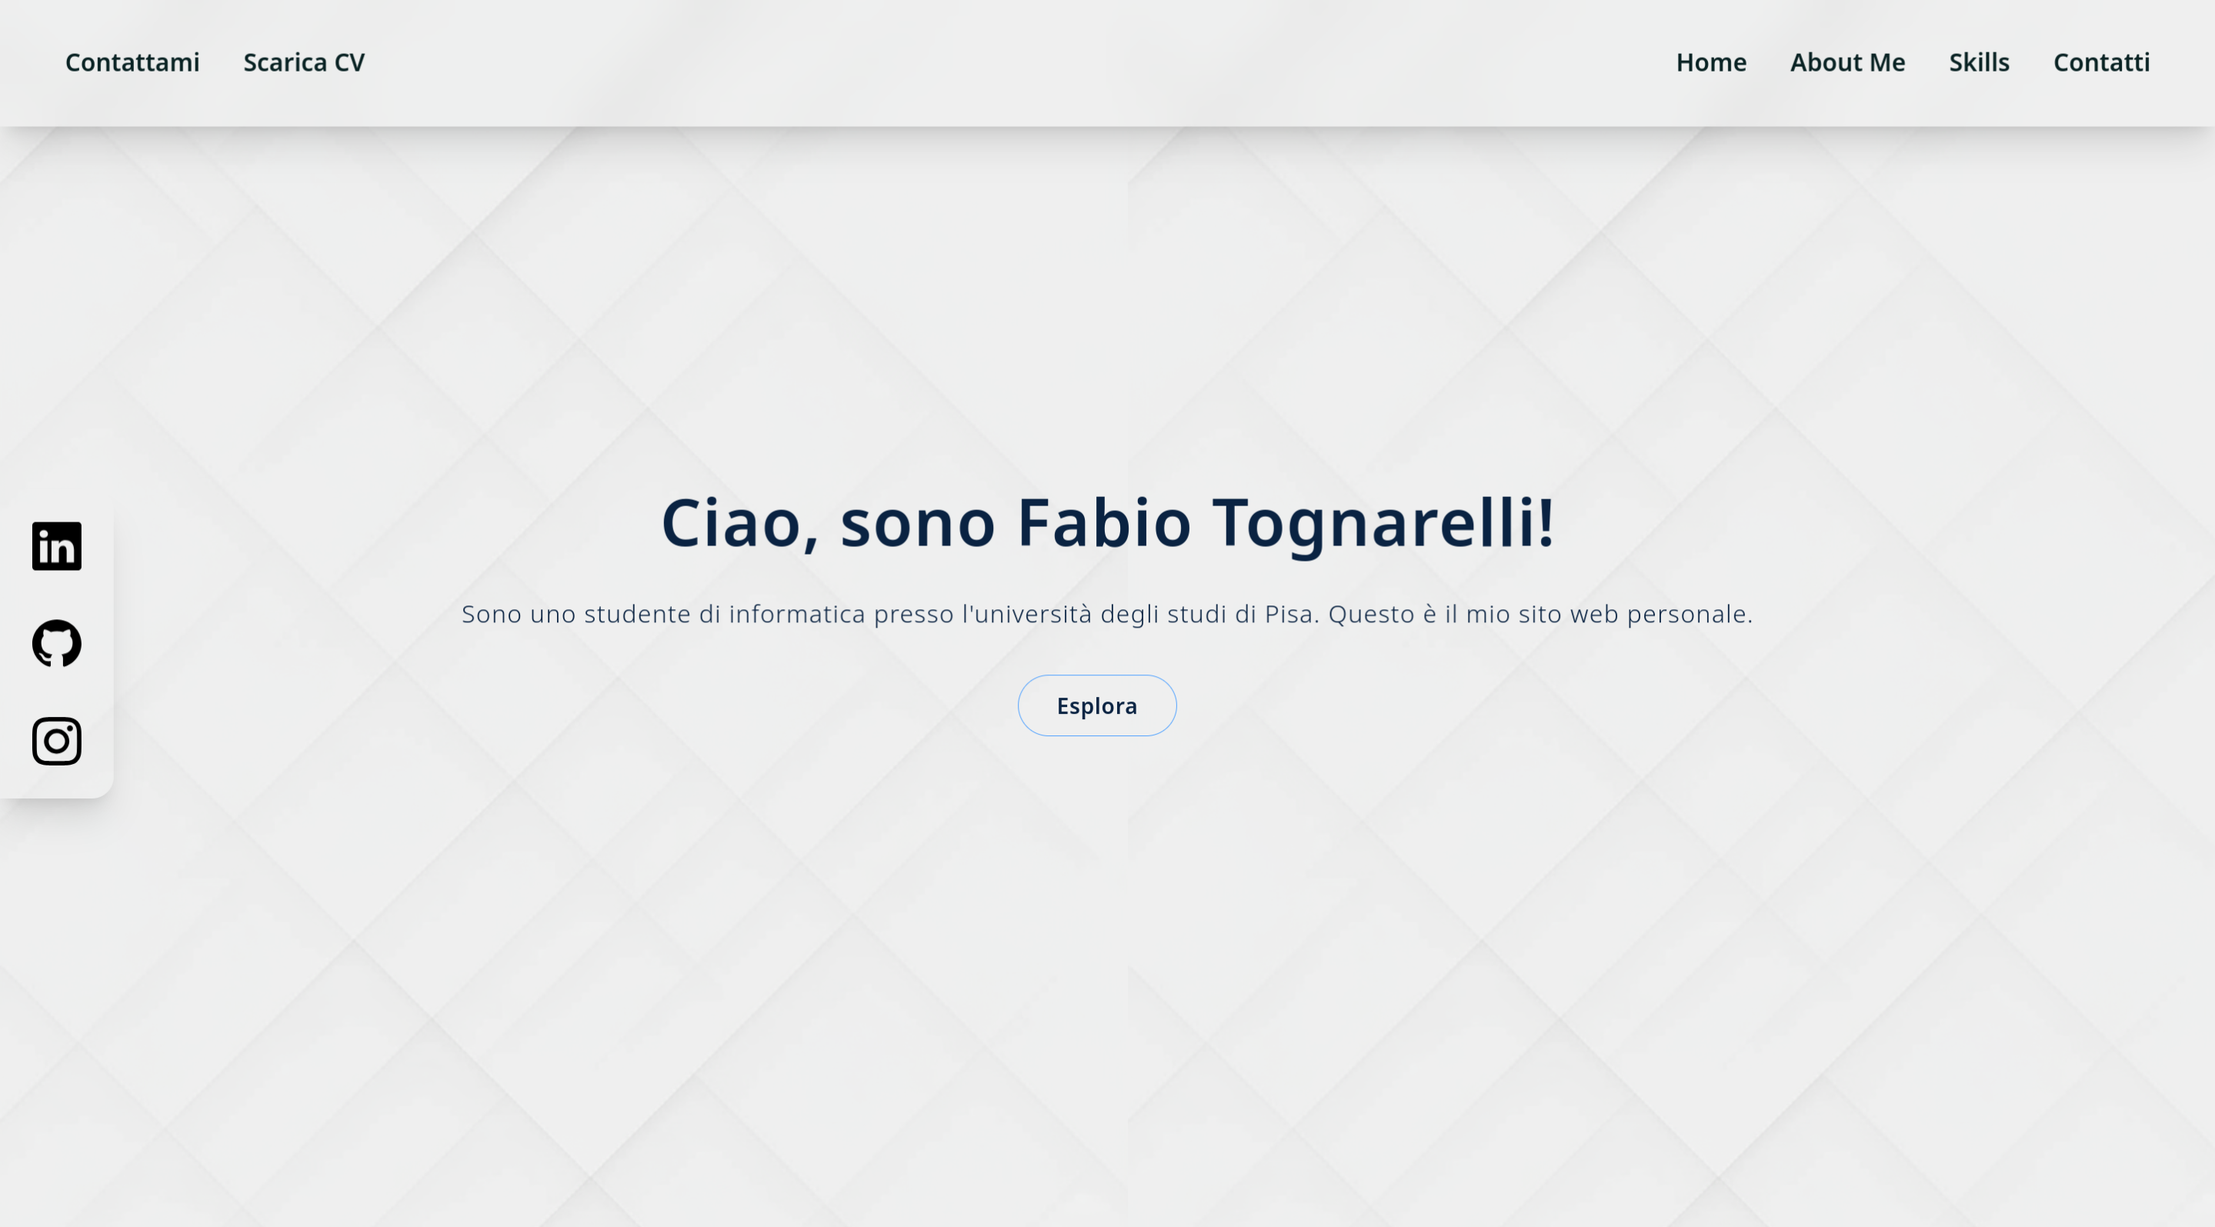
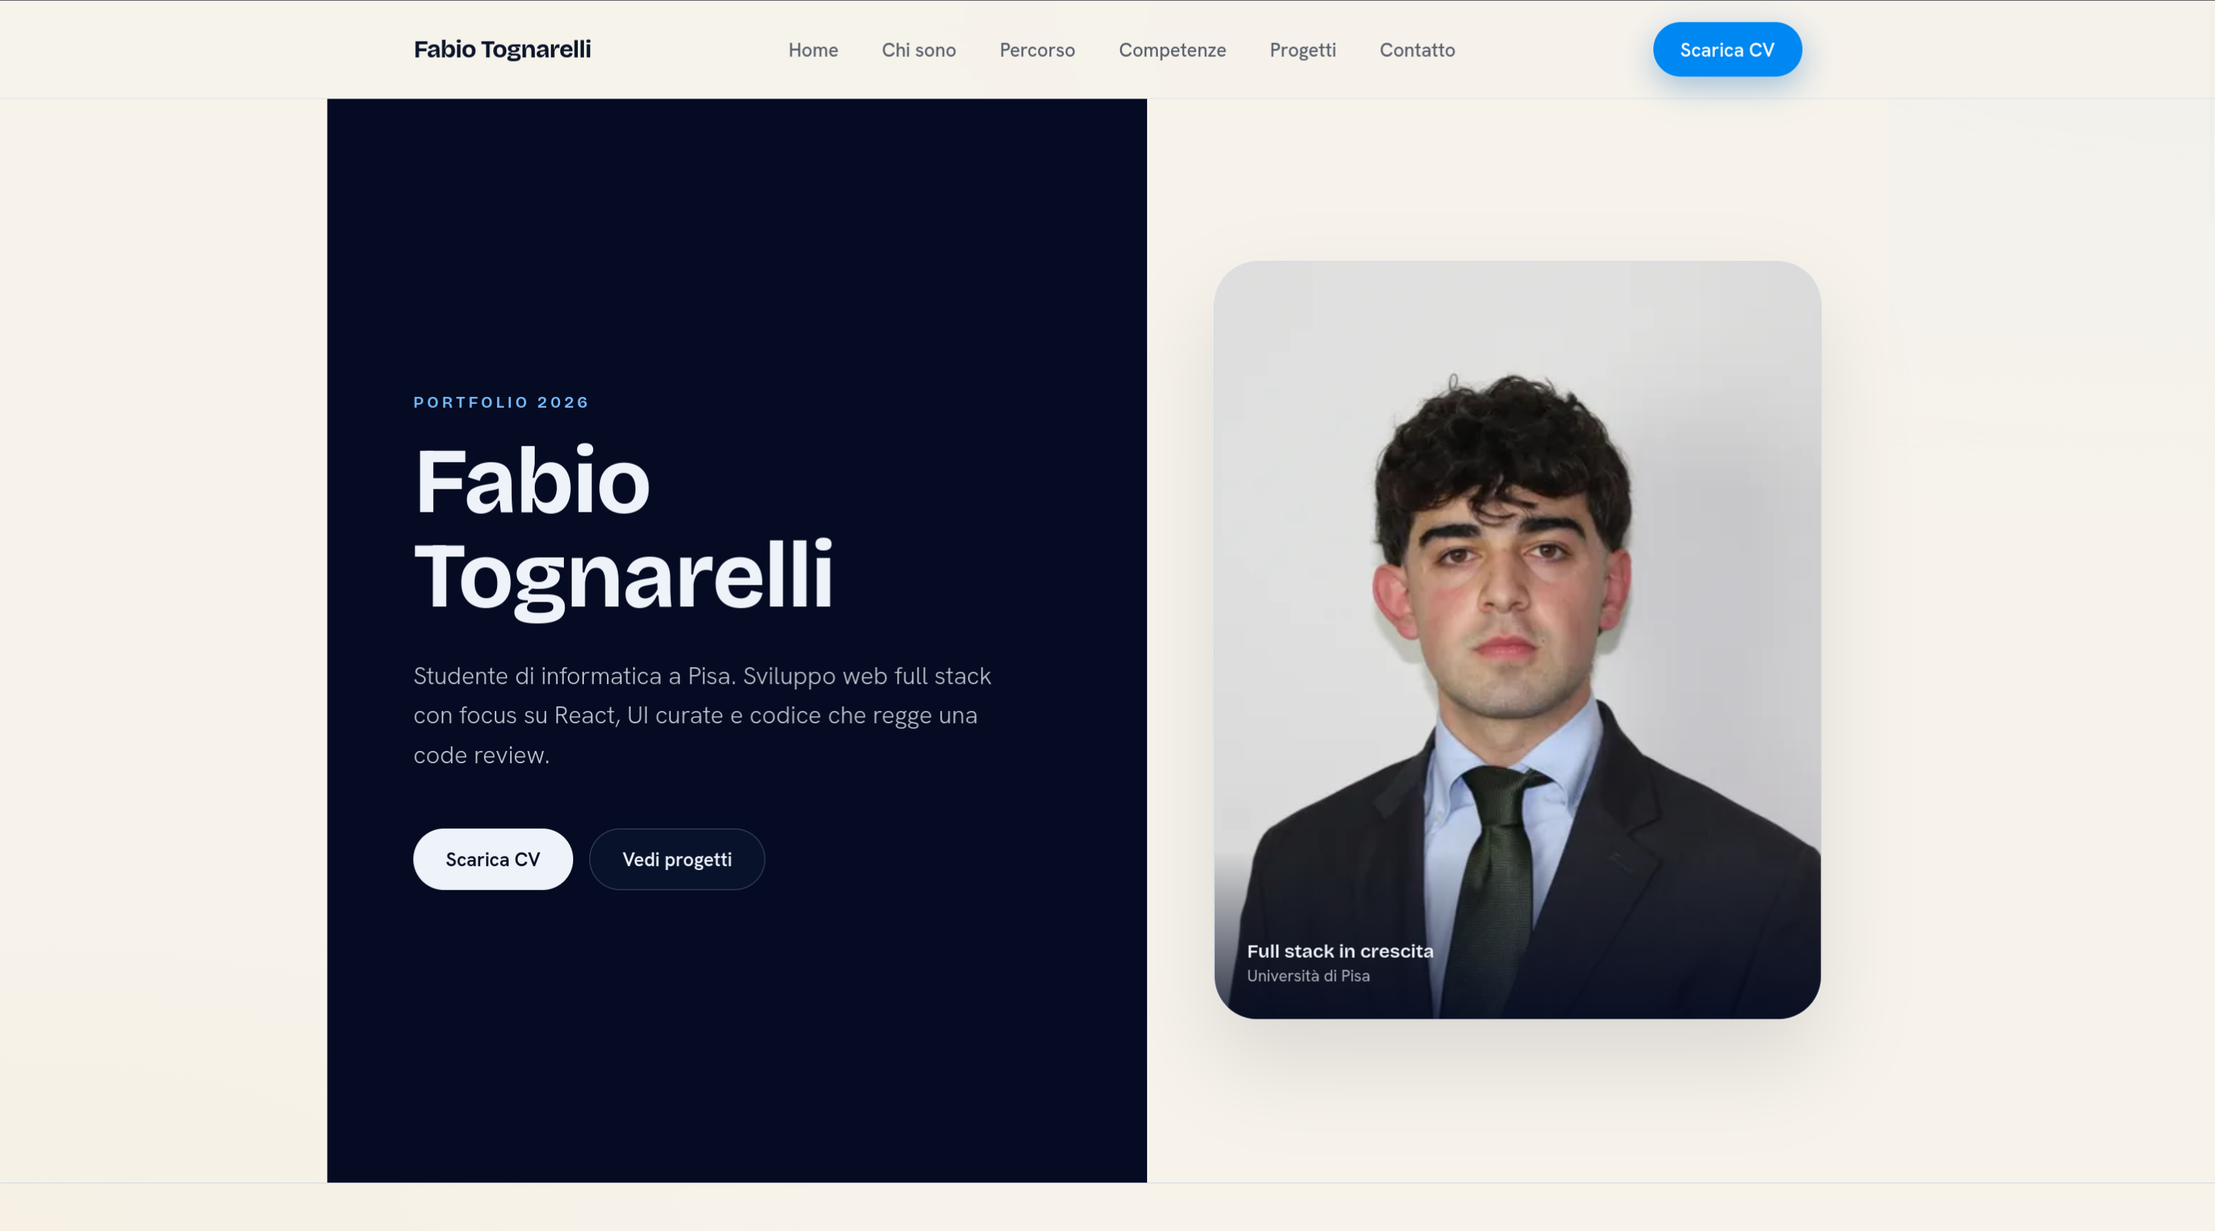
update README | piccole modifiche grafiche a ContactPage e StudySection | update regole eslint

diff --git a/src/components/pages/ContactPage.jsx b/src/components/pages/ContactPage.jsx
@@ -33,7 +33,7 @@ function FieldError({ id, message }) {
   }
 
   return (
-    <p id={id} role="alert" className="mt-1.5 text-sm text-error-text">
+    <p id={id} role="alert" className="text-error-text mt-1.5 text-sm">
       {message}
     </p>
   );
@@ -79,7 +79,9 @@ function ContactPage() {
       setFieldErrors(errors);
       setFormError("");
       setStatus("idle");
-      const firstInvalid = ["name", "email", "message"].find((field) => errors[field]);
+      const firstInvalid = ["name", "email", "message"].find(
+        (field) => errors[field],
+      );
       if (firstInvalid) {
         document.getElementById(`contact-${firstInvalid}`)?.focus();
       }
@@ -126,8 +128,8 @@ function ContactPage() {
           <p className="section-label">Contatto</p>
           <h1 className="section-heading mt-3">Parliamone</h1>
           <p className="prose-body mt-4">
-            Opportunità di stage, collaborazioni o domande sul mio percorso: rispondo
-            appena possibile.
+            Opportunità di stage, collaborazioni o domande sul mio percorso:
+            rispondo appena possibile.
           </p>
         </Reveal>
 
@@ -141,7 +143,7 @@ function ContactPage() {
           <div>
             <label
               htmlFor="contact-name"
-              className="mb-1.5 block text-sm font-semibold text-ink"
+              className="text-ink mb-1.5 block text-sm font-semibold"
             >
               Nome
             </label>
@@ -151,7 +153,7 @@ function ContactPage() {
               value={values.name}
               onChange={(e) => updateField("name", e.target.value)}
               type="text"
-              className="motion-field w-full rounded-xl border border-line bg-canvas/50 px-4 py-3 text-base text-ink sm:text-sm"
+              className="motion-field border-line text-ink w-full cursor-pointer rounded-xl border px-4 py-3 text-base sm:text-sm"
               placeholder="Il tuo nome"
               autoComplete="name"
               aria-invalid={fieldErrors.name ? "true" : undefined}
@@ -165,7 +167,7 @@ function ContactPage() {
           <div>
             <label
               htmlFor="contact-email"
-              className="mb-1.5 block text-sm font-semibold text-ink"
+              className="text-ink mb-1.5 block text-sm font-semibold"
             >
               Email
             </label>
@@ -175,7 +177,7 @@ function ContactPage() {
               value={values.email}
               onChange={(e) => updateField("email", e.target.value)}
               type="email"
-              className="motion-field w-full rounded-xl border border-line bg-canvas/50 px-4 py-3 text-base text-ink sm:text-sm"
+              className="motion-field border-line text-ink w-full cursor-pointer rounded-xl border px-4 py-3 text-base sm:text-sm"
               placeholder="nome@email.com"
               autoComplete="email"
               aria-invalid={fieldErrors.email ? "true" : undefined}
@@ -189,7 +191,7 @@ function ContactPage() {
           <div>
             <label
               htmlFor="contact-message"
-              className="mb-1.5 block text-sm font-semibold text-ink"
+              className="text-ink mb-1.5 block text-sm font-semibold"
             >
               Messaggio
             </label>
@@ -199,7 +201,7 @@ function ContactPage() {
               value={values.message}
               onChange={(e) => updateField("message", e.target.value)}
               rows={6}
-              className="motion-field w-full resize-none rounded-xl border border-line bg-canvas/50 px-4 py-3 text-base text-ink sm:text-sm"
+              className="motion-field border-line text-ink w-full cursor-pointer resize-none rounded-xl border px-4 py-3 text-base sm:text-sm"
               placeholder="Di cosa vuoi parlare?"
               aria-invalid={fieldErrors.message ? "true" : undefined}
               aria-describedby={
@@ -212,6 +214,7 @@ function ContactPage() {
             />
           </div>
 
+          {/* bottone submit */}
           <button
             type="submit"
             disabled={!canSubmit}
@@ -224,7 +227,7 @@ function ContactPage() {
           {status === "success" && (
             <p
               role="status"
-              className="rounded-xl border border-success-border bg-success-surface p-4 text-sm text-success-text"
+              className="border-success-border bg-success-surface text-success-text rounded-xl border p-4 text-sm"
             >
               Messaggio inviato. Ti risponderò appena possibile.
             </p>
@@ -233,7 +236,7 @@ function ContactPage() {
           {status === "error" && formError && (
             <p
               role="alert"
-              className="rounded-xl border border-error-border bg-error-surface p-4 text-sm text-error-text"
+              className="border-error-border bg-error-surface text-error-text rounded-xl border p-4 text-sm"
             >
               {formError}
             </p>

diff --git a/src/components/sections/StudyTimeline.jsx b/src/components/sections/StudyTimeline.jsx
@@ -3,36 +3,6 @@ import { ChevronDownIcon } from "@heroicons/react/24/outline";
 import Reveal from "../ui/Reveal";
 import { studyPath } from "../../lib/study";
 
-function CurrentBadge({ hint }) {
-  const hintId = useId();
-  const [open, setOpen] = useState(false);
-
-  return (
-    <span className="current-badge relative inline-flex">
-      <button
-        type="button"
-        className="touch-target rounded-full bg-accent/12 px-3 py-1.5 text-xs font-semibold text-accent-deep outline-none"
-        aria-describedby={hintId}
-        aria-expanded={open}
-        onClick={() => setOpen((value) => !value)}
-        onBlur={(event) => {
-          if (!event.currentTarget.parentElement?.contains(event.relatedTarget)) {
-            setOpen(false);
-          }
-        }}
-      >
-        Attuale
-      </button>
-      <span
-        id={hintId}
-        className={`current-badge__hint${open ? " current-badge__hint--open" : ""}`}
-        role="tooltip"
-      >
-        {hint}
-      </span>
-    </span>
-  );
-}
 
 function StudyEntry({ entry, index }) {
   const detailsId = useId();
@@ -43,7 +13,7 @@ function StudyEntry({ entry, index }) {
     <Reveal
       as="li"
       delay={index * 100}
-      className="relative grid gap-4 pb-10 sm:gap-6 sm:pb-12 md:grid-cols-[auto_1fr] md:items-start md:gap-x-8 md:pb-16 last:pb-0"
+      className="relative grid gap-4 pb-10 last:pb-0 sm:gap-6 sm:pb-12 md:grid-cols-[auto_1fr] md:items-start md:gap-x-8 md:pb-16"
     >
       <div className="flex shrink-0 items-start md:pt-1">
         <img
@@ -60,25 +30,18 @@ function StudyEntry({ entry, index }) {
       </div>
 
       <article
-        className={`surface-panel p-6 md:p-8 ${
-          entry.current
-            ? "border-accent/35 bg-surface shadow-[0_16px_40px_oklch(20%_0.04_265/0.08)]"
-            : ""
-        }`}
+        className={`surface-panel p-6 md:p-8`}
       >
         <div className="flex flex-wrap items-center gap-x-3 gap-y-1">
-          <p className="text-xs font-semibold uppercase tracking-wider text-accent">
+          <p className="text-accent text-xs font-semibold tracking-wider uppercase">
             {entry.period}
           </p>
-          {entry.current && entry.currentHint && (
-            <CurrentBadge hint={entry.currentHint} />
-          )}
         </div>
-        <h3 className="mt-2 font-display text-xl font-bold text-ink md:text-2xl">
+        <h3 className="font-display text-ink mt-2 text-xl font-bold md:text-2xl">
           {entry.school}
         </h3>
-        <p className="mt-1 text-sm text-ink-soft">{entry.place}</p>
-        <p className="mt-4 text-base leading-relaxed text-ink-muted">
+        <p className="text-ink-soft mt-1 text-sm">{entry.place}</p>
+        <p className="text-ink-muted mt-4 text-base leading-relaxed">
           {entry.degree}
         </p>
 
@@ -91,9 +54,11 @@ function StudyEntry({ entry, index }) {
               aria-controls={detailsId}
               onClick={() => setExpanded((open) => !open)}
             >
-              <span>{expanded ? "Nascondi dettagli" : "Dettagli del percorso"}</span>
+              <span>
+                {expanded ? "Nascondi dettagli" : "Dettagli del percorso"}
+              </span>
               <ChevronDownIcon
-                className="h-4 w-4 shrink-0 transition-transform duration-(--duration-ui) ease-fluid"
+                className="ease-fluid h-4 w-4 shrink-0 transition-transform duration-(--duration-ui)"
                 style={{ transform: expanded ? "rotate(180deg)" : undefined }}
                 aria-hidden
               />
@@ -107,11 +72,11 @@ function StudyEntry({ entry, index }) {
               {...(!expanded ? { inert: "" } : {})}
             >
               <div className="expand-panel__inner">
-                <ul className="expand-panel__content mt-4 space-y-2 border-t border-line/80 pt-4 text-sm leading-relaxed text-ink-muted">
+                <ul className="expand-panel__content border-line/80 text-ink-muted mt-4 space-y-2 border-t pt-4 text-sm leading-relaxed">
                   {entry.details.map((line) => (
                     <li key={line} className="flex gap-2.5">
                       <span
-                        className="mt-2 h-1 w-1 shrink-0 rounded-full bg-accent"
+                        className="bg-accent mt-2 h-1 w-1 shrink-0 rounded-full"
                         aria-hidden
                       />
                       <span>{line}</span>
@@ -131,7 +96,7 @@ function StudyTimeline() {
   return (
     <section
       id="percorso"
-      className="section-pad border-y border-line bg-surface/50 scroll-mt-header"
+      className="section-pad border-line bg-surface/50 scroll-mt-header border-y"
       aria-labelledby="study-heading"
     >
       <div className="mx-auto max-w-6xl">

diff --git a/eslint.config.js b/eslint.config.js
@@ -1,13 +1,13 @@
-import js from '@eslint/js'
-import globals from 'globals'
-import reactHooks from 'eslint-plugin-react-hooks'
-import reactRefresh from 'eslint-plugin-react-refresh'
-import { defineConfig, globalIgnores } from 'eslint/config'
+import js from "@eslint/js";
+import globals from "globals";
+import reactHooks from "eslint-plugin-react-hooks";
+import reactRefresh from "eslint-plugin-react-refresh";
+import { defineConfig, globalIgnores } from "eslint/config";
 
 export default defineConfig([
-  globalIgnores(['dist']),
+  globalIgnores(["dist", ".agents/**", ".impeccable/**"]),
   {
-    files: ['**/*.{js,jsx}'],
+    files: ["**/*.{js,jsx}"],
     extends: [
       js.configs.recommended,
       reactHooks.configs.flat.recommended,
@@ -17,13 +17,13 @@ export default defineConfig([
       ecmaVersion: 2020,
       globals: globals.browser,
       parserOptions: {
-        ecmaVersion: 'latest',
+        ecmaVersion: "latest",
         ecmaFeatures: { jsx: true },
-        sourceType: 'module',
+        sourceType: "module",
       },
     },
     rules: {
-      'no-unused-vars': ['error', { varsIgnorePattern: '^[A-Z_]' }],
+      "no-unused-vars": ["error", { varsIgnorePattern: "^[A-Z_]" }],
     },
   },
-])
+]);

diff --git a/README.md b/README.md
@@ -1,7 +1,5 @@
 # Fabio Tognarelli - Portfolio Personale
 
-![Banner Principale](../public/screenshots/desktop-preview.png)
-
 [![Live Demo](https://img.shields.io/badge/demo-online-green.svg)](https://fabiotognaa-personal-portfolio.vercel.app)
 
 ## 👋 Introduzione
@@ -26,29 +24,31 @@ Il progetto è costruito con un approccio moderno, pulito e focalizzato sulle pe
 
 Ecco le tecnologie e gli strumenti utilizzati per realizzare questo progetto:
 
-| Categoria           | Tecnologie                          |
-| :------------------ | :---------------------------------- |
-| **Build Tool**      | Vite                                |
-| **Database**        | Supabase                            |
+| Categoria           | Tecnologie                                     |
+| :------------------ | :--------------------------------------------- |
+| **Build Tool**      | Vite                                           |
+| **Database**        | Supabase                                       |
 | **Frontend**        | React, React Router, Tailwind CSS, Headless UI |
-| **Code Quality**    | Prettier (Tailwind Plugin), ESLint  |
-| **Version Control** | Git & GitHub                        |
-| **Deployment**      | Vercel                              |
-| **Design & Assets** | Canva (editing immagini), HeroIcons |
+| **Code Quality**    | Prettier (Tailwind Plugin), ESLint             |
+| **Version Control** | Git & GitHub                                   |
+| **Deployment**      | Vercel                                         |
+| **Design & Assets** | Canva (editing immagini), HeroIcons            |
 
 ## 📸 Anteprima
 
 ### Desktop View
 
-![Desktop Screenshot](../public/screenshots/desktop-preview.png)
+<img src="./docs/screenshots/desktop-preview.png" alt="Desktop Preview" width="260" />
 
-### Mobile View
-
-<img src="../public/screenshots/mobile-preview.png" alt="Mobile Preview" width="260" />
 
 ### Contact Page
 
-<img src="../public/screenshots/form-preview.png" alt="Contact form preview" width="260" />
+<img src="./docs/screenshots/form-preview.png" alt="Contact form preview" width="260" />
+
+
+### Project Page
+
+<img src="./docs/screenshots/" alt="Project section preview" width="260" />
 
 ## 🚀 Come avviare il progetto in locale
 
@@ -93,39 +93,45 @@ Assicurati di avere installato [Node.js](https://nodejs.org/) e [pnpm](https://p
 
 ### Altri comandi utili
 
-| Comando              | Descrizione                          |
-| :------------------- | :----------------------------------- |
-| `pnpm build`         | Build di produzione in `dist/`       |
-| `pnpm preview`       | Anteprima locale della build         |
-| `pnpm lint`          | Controllo ESLint                     |
-| `pnpm deploy`        | Build + deploy produzione su Vercel  |
-| `pnpm deploy:preview`| Build + deploy preview su Vercel     |
+| Comando               | Descrizione                         |
+| :-------------------- | :---------------------------------- |
+| `pnpm build`          | Build di produzione in `dist/`      |
+| `pnpm preview`        | Anteprima locale della build        |
+| `pnpm lint`           | Controllo ESLint                    |
+| `pnpm deploy`         | Build + deploy produzione su Vercel |
+| `pnpm deploy:preview` | Build + deploy preview su Vercel    |
 
 ## 📂 Struttura del Progetto
 
 ```text
-├── public/                     # Asset statici serviti così come sono
-│   ├── images/                 # Foto profilo e loghi istituti
-│   ├── screenshots/            # Anteprime per la documentazione
-│   └── cv-tognarelli-fabio.pdf # Curriculum vitae
+├── public/                         # Asset statici serviti così come sono
+│   ├── images/
+│   │   ├── logos/                  # Loghi istituti (WebP, varianti responsive)
+│   │   └── tognarelli-*.webp       # Foto profilo (varianti responsive)
+│   └── cv-tognarelli-fabio.pdf     # Curriculum vitae
+│
+├── docs/
+│   └── screenshots/                # Anteprime usate nel README
 │
 ├── src/
-│   ├── assets/                 # Icone SVG e sorgenti immagine
+│   ├── assets/                     # Icone skill e loghi (SVG)
 │   ├── components/
-│   │   ├── layout/             # Header, footer e shell di pagina
-│   │   ├── pages/              # Route (Home, Contact, Projects)
-│   │   ├── sections/           # Sezioni della home
-│   │   └── ui/                 # Componenti UI riutilizzabili
-│   ├── hooks/                  # Hook React (scroll header, icone skill)
-│   ├── lib/                    # Dati, navigazione, client Supabase
-│   ├── main.jsx                # Entry point React
-│   ├── index.css               # Stili globali e token Tailwind
-│   └── components/App.jsx      # Router e lazy loading delle pagine
+│   │   ├── App.jsx                 # Router e lazy loading delle pagine
+│   │   ├── ScrollToTop.jsx         # Scroll in cima al cambio route
+│   │   ├── layout/                 # PageShell, SiteHeader, SiteFooter
+│   │   ├── pages/                  # HomePage, ContactPage, ProjectsPage
+│   │   ├── sections/               # Hero, About, Skills, StudyTimeline, Projects
+│   │   └── ui/                     # Button, ProjectCard, Reveal, SkillGroupCard
+│   ├── hooks/                      # useHeaderScrollState, useLazySkillIcon
+│   ├── lib/                        # Dati (projects, skills, study), navigazione,
+│   │                               # skill-icons, revealObserver, supabaseClient
+│   ├── main.jsx                    # Entry point React
+│   └── index.css                   # Stili globali e token Tailwind
 │
-├── docs/                       # Documentazione (questo README)
-├── .env.example                # Template variabili Supabase
-├── index.html                  # Entry point HTML
-└── [config files]              # Vite, ESLint, Prettier, Vercel
+├── .env.example                    # Template variabili Supabase
+├── index.html                      # Entry point HTML
+└── [config files]                # vite.config.js, eslint.config.js, vercel.json,
+                                    # .prettierrc, package.json, pnpm-lock.yaml
 ```
 
 ## 📬 Contatti
